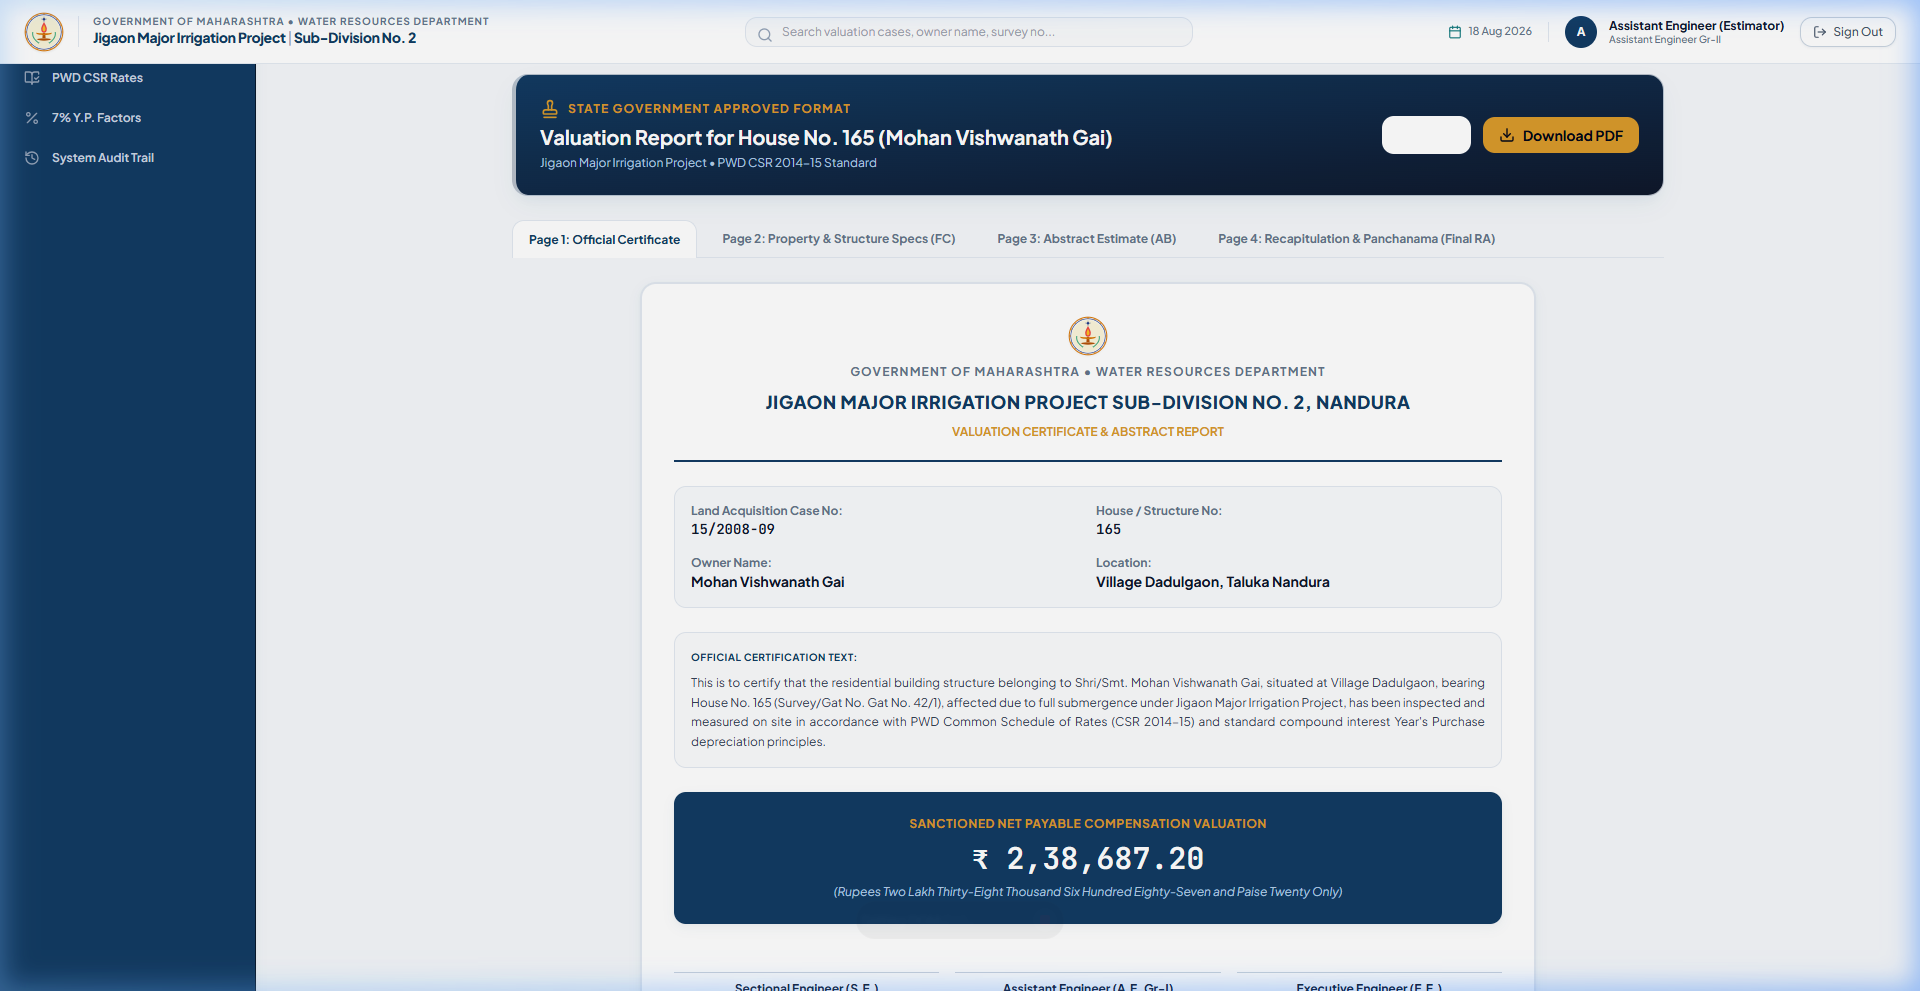
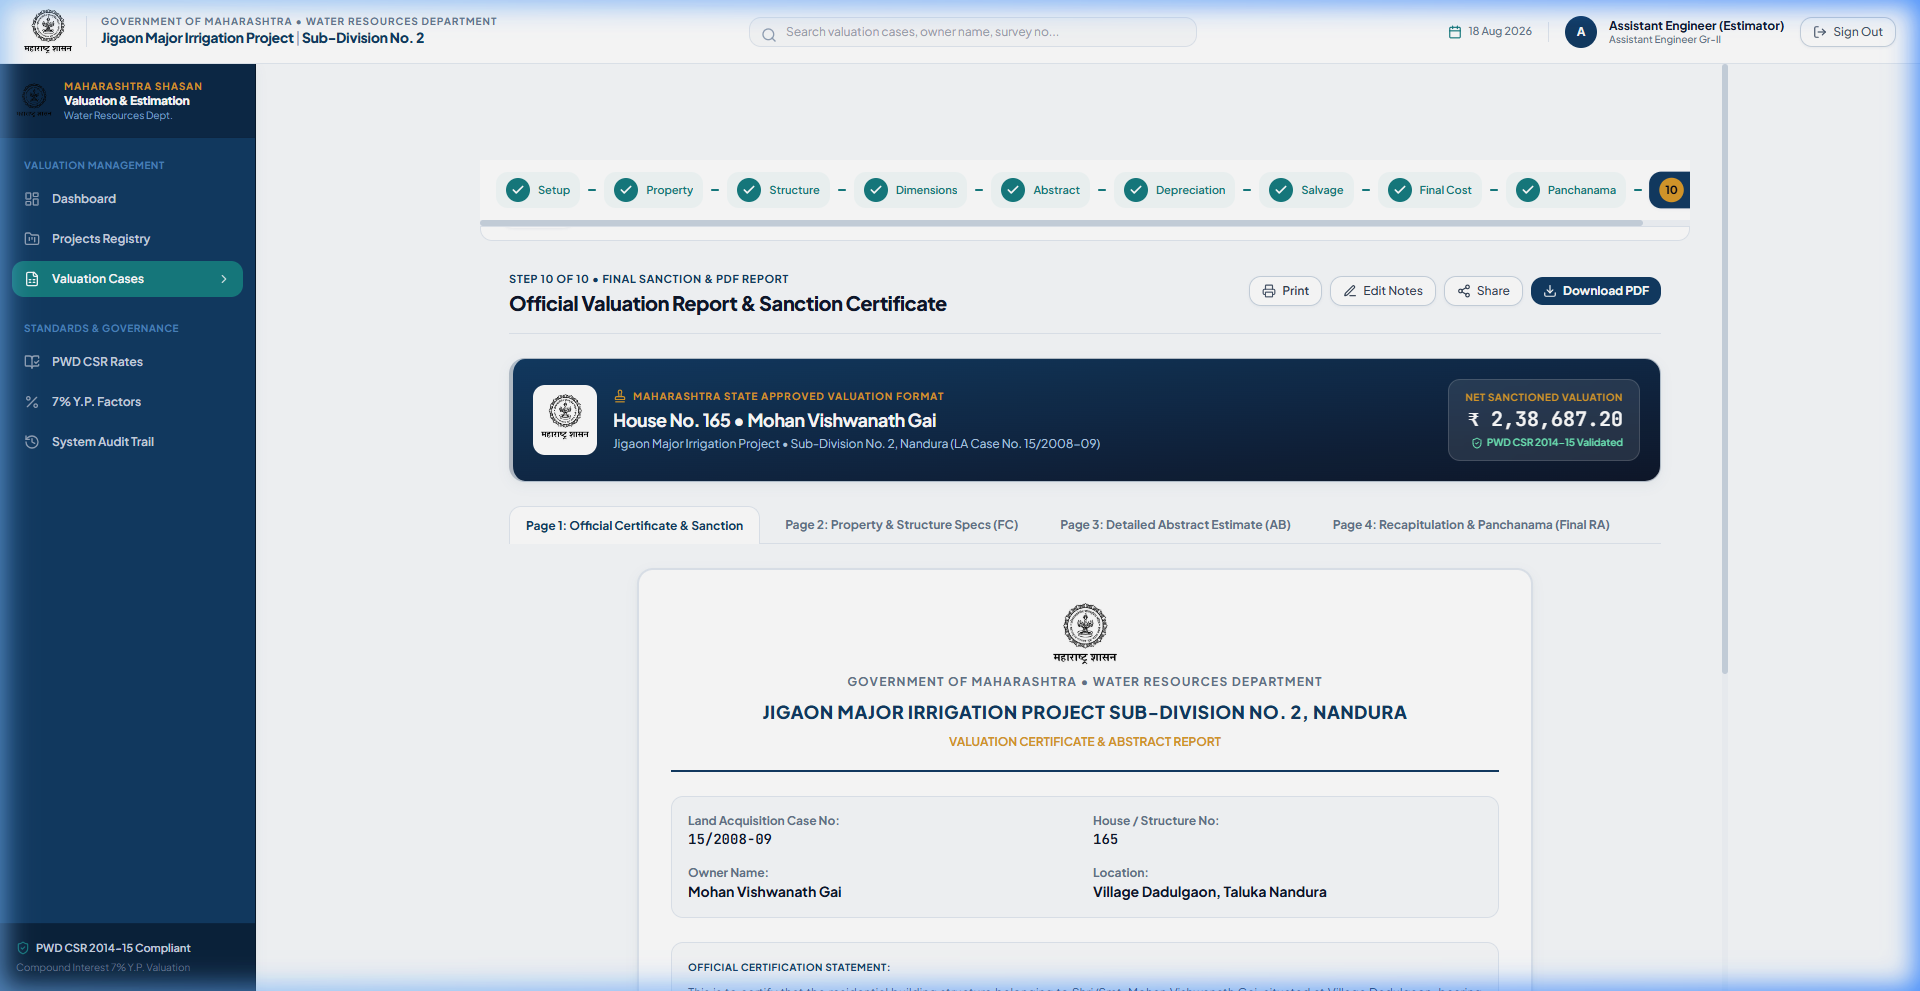
refactor: eliminate duplicate action buttons and streamline report page layout

diff --git a/frontend/src/pages/cases/steps/PdfReportStep.tsx b/frontend/src/pages/cases/steps/PdfReportStep.tsx
@@ -19,6 +19,7 @@ import {
   Check,
   FileSpreadsheet,
   Layers,
+  ShieldCheck,
 } from 'lucide-react';
 
 interface PdfReportStepProps {
@@ -116,27 +117,27 @@ export const PdfReportStep: React.FC<PdfReportStepProps> = ({
 
   return (
     <div className="space-y-6">
-      {/* Section Header with All Visible Actions */}
-      <div className="flex flex-col lg:flex-row lg:items-center justify-between gap-4 border-b border-slate-200 pb-4">
+      {/* Top Header & Unified Single Action Toolbar */}
+      <div className="flex flex-col sm:flex-row sm:items-center justify-between gap-4 border-b border-slate-200 pb-4">
         <div>
-          <span className="text-xs font-bold text-gov-navy uppercase tracking-wider">
+          <span className="text-[11px] font-bold text-gov-navy uppercase tracking-wider">
             Step 10 of 10 • Final Sanction & PDF Report
           </span>
           <h2 className="text-xl font-extrabold text-slate-900 tracking-tight">
-            Official Multi-Page Valuation Report & Government Certificate
+            Official Valuation Report & Sanction Certificate
           </h2>
         </div>
 
-        {/* Prominent Action Toolbar (Print, Edit, Share, Download) */}
-        <div className="flex flex-wrap items-center gap-2">
+        {/* Single Non-Overlapping Action Toolbar */}
+        <div className="flex items-center gap-2">
           <Button
             variant="outline"
             size="sm"
             onClick={() => window.print()}
-            leftIcon={<Printer className="w-4 h-4 text-slate-600" />}
-            className="border-slate-300 hover:bg-slate-100 font-semibold"
+            leftIcon={<Printer className="w-3.5 h-3.5 text-slate-600" />}
+            className="border-slate-300 hover:bg-slate-50 font-semibold text-slate-700"
           >
-            Print Sheet
+            Print
           </Button>
 
           <Button
@@ -145,7 +146,7 @@ export const PdfReportStep: React.FC<PdfReportStepProps> = ({
             onClick={() => setIsEditMode(!isEditMode)}
             leftIcon={<Edit3 className="w-3.5 h-3.5" />}
           >
-            {isEditMode ? 'Save & Lock Report' : 'Edit Report Notes'}
+            {isEditMode ? 'Save & Lock' : 'Edit Notes'}
           </Button>
 
           <Button
@@ -154,7 +155,7 @@ export const PdfReportStep: React.FC<PdfReportStepProps> = ({
             onClick={() => setIsShareModalOpen(true)}
             leftIcon={<Share2 className="w-3.5 h-3.5" />}
           >
-            Share & Export
+            Share
           </Button>
 
           <Button
@@ -162,10 +163,10 @@ export const PdfReportStep: React.FC<PdfReportStepProps> = ({
             size="sm"
             onClick={handleDownloadPdf}
             isLoading={isDownloading}
-            leftIcon={<Download className="w-4 h-4" />}
-            className="bg-gov-navy hover:bg-gov-navy-900 font-bold shadow-soft-xs"
+            leftIcon={<Download className="w-3.5 h-3.5" />}
+            className="bg-gov-navy hover:bg-gov-navy-900 font-bold"
           >
-            Download Official PDF
+            Download PDF
           </Button>
         </div>
       </div>
@@ -176,7 +177,7 @@ export const PdfReportStep: React.FC<PdfReportStepProps> = ({
           <div className="flex items-center gap-2">
             <Edit3 className="w-4 h-4 text-amber-700 shrink-0" />
             <span>
-              <strong>Report Customization Mode Active:</strong> You can edit the certificate title, remarks, and signatories directly below. Click <strong>"Save & Lock Report"</strong> when finished.
+              <strong>Report Customization Mode Active:</strong> You can edit the certificate title, remarks, and signatories directly below. Click <strong>"Save & Lock"</strong> when finished.
             </span>
           </div>
           <Button size="sm" variant="secondary" onClick={() => setIsEditMode(false)}>
@@ -185,52 +186,44 @@ export const PdfReportStep: React.FC<PdfReportStepProps> = ({
         </div>
       )}
 
-      {/* Report Hero Card */}
+      {/* Summary Hero Card (Clean & Prestigious without Duplicate Buttons) */}
       <Card
         variant="accent-border"
-        className="p-6 bg-gradient-to-br from-gov-navy to-slate-900 text-white shadow-soft-lg flex flex-col md:flex-row items-center justify-between gap-6"
+        className="p-5 bg-gradient-to-br from-gov-navy to-slate-900 text-white shadow-soft-md flex flex-col md:flex-row items-center justify-between gap-6"
       >
         <div className="flex items-center gap-4 text-center md:text-left">
-          <div className="p-2 rounded-gov-md bg-white shrink-0 shadow-soft-sm">
+          <div className="p-2 rounded-gov-md bg-white shrink-0 shadow-soft-xs">
             <GovtEmblem size="md" />
           </div>
 
-          <div className="space-y-1">
-            <div className="flex items-center justify-center md:justify-start gap-2">
-              <Stamp className="w-4 h-4 text-gov-saffron" />
-              <span className="text-xs font-bold text-gov-saffron uppercase tracking-widest">
-                Maharashtra State Approved Format
+          <div className="space-y-0.5">
+            <div className="flex items-center justify-center md:justify-start gap-1.5">
+              <Stamp className="w-3.5 h-3.5 text-gov-saffron" />
+              <span className="text-[10px] font-bold text-gov-saffron uppercase tracking-widest">
+                Maharashtra State Approved Valuation Format
               </span>
             </div>
-            <h3 className="text-xl font-bold text-white">
-              Valuation Report for House No. {propertyData?.houseNumber || '165'} ({propertyData?.ownerName})
+            <h3 className="text-lg font-bold text-white tracking-tight">
+              House No. {propertyData?.houseNumber || '165'} • {propertyData?.ownerName || 'Mohan Vishwanath Gai'}
             </h3>
             <p className="text-xs text-gov-navy-200">
-              Jigaon Major Irrigation Project • PWD CSR 2014-15 Standard
+              Jigaon Major Irrigation Project • Sub-Division No. 2, Nandura (LA Case No. {propertyData?.laCaseNumber || '15/2008-09'})
             </p>
           </div>
         </div>
 
-        <div className="flex items-center gap-3">
-          <Button
-            variant="ghost"
-            size="md"
-            onClick={() => window.print()}
-            leftIcon={<Printer className="w-4 h-4 text-white" />}
-            className="text-white border border-white/40 hover:bg-white/15 font-bold"
-          >
-            Print Sheet
-          </Button>
-          <Button
-            variant="primary"
-            size="md"
-            onClick={handleDownloadPdf}
-            isLoading={isDownloading}
-            leftIcon={<Download className="w-4 h-4 text-slate-950" />}
-            className="bg-gov-saffron text-slate-950 hover:bg-gov-saffron-600 font-bold shadow-soft-sm"
-          >
-            Download PDF
-          </Button>
+        {/* Financial Badge Highlight */}
+        <div className="text-center md:text-right bg-white/10 backdrop-blur-md px-4 py-2.5 rounded-gov-md border border-white/15 shrink-0">
+          <div className="text-[10px] font-bold text-gov-saffron uppercase tracking-wider">
+            Net Sanctioned Valuation
+          </div>
+          <div className="text-xl font-extrabold font-mono text-white">
+            ₹ 2,38,687.20
+          </div>
+          <div className="text-[10px] text-emerald-300 font-semibold flex items-center justify-center md:justify-end gap-1 mt-0.5">
+            <ShieldCheck className="w-3 h-3" />
+            <span>PWD CSR 2014-15 Validated</span>
+          </div>
         </div>
       </Card>
 
@@ -245,7 +238,7 @@ export const PdfReportStep: React.FC<PdfReportStepProps> = ({
               : 'text-slate-500 hover:text-slate-900 border-transparent'
           }`}
         >
-          Page 1: Official Certificate
+          Page 1: Official Certificate & Sanction
         </button>
         <button
           type="button"
@@ -267,7 +260,7 @@ export const PdfReportStep: React.FC<PdfReportStepProps> = ({
               : 'text-slate-500 hover:text-slate-900 border-transparent'
           }`}
         >
-          Page 3: Abstract Estimate (AB)
+          Page 3: Detailed Abstract Estimate (AB)
         </button>
         <button
           type="button"
@@ -566,34 +559,23 @@ export const PdfReportStep: React.FC<PdfReportStepProps> = ({
         </div>
       )}
 
-      {/* Action Toolbar */}
+      {/* Bottom Navigation */}
       <div className="flex items-center justify-between pt-4 border-t border-slate-200">
         <Button type="button" variant="outline" size="md" onClick={onPrev} leftIcon={<ArrowLeft className="w-4 h-4" />}>
           Back to Panchanama & Photos
         </Button>
 
-        <div className="flex items-center gap-2">
-          <Button
-            type="button"
-            variant="outline"
-            size="md"
-            onClick={() => window.print()}
-            leftIcon={<Printer className="w-4 h-4" />}
-          >
-            Print Certificate
-          </Button>
-
-          <Button
-            type="button"
-            variant="primary"
-            size="md"
-            onClick={handleDownloadPdf}
-            isLoading={isDownloading}
-            leftIcon={<Download className="w-4 h-4" />}
-          >
-            Download Valuation PDF Report
-          </Button>
-        </div>
+        <Button
+          type="button"
+          variant="primary"
+          size="md"
+          onClick={handleDownloadPdf}
+          isLoading={isDownloading}
+          leftIcon={<Download className="w-4 h-4" />}
+          className="bg-gov-navy hover:bg-gov-navy-900 font-bold"
+        >
+          Download Official Government PDF (A4)
+        </Button>
       </div>
     </div>
   );
